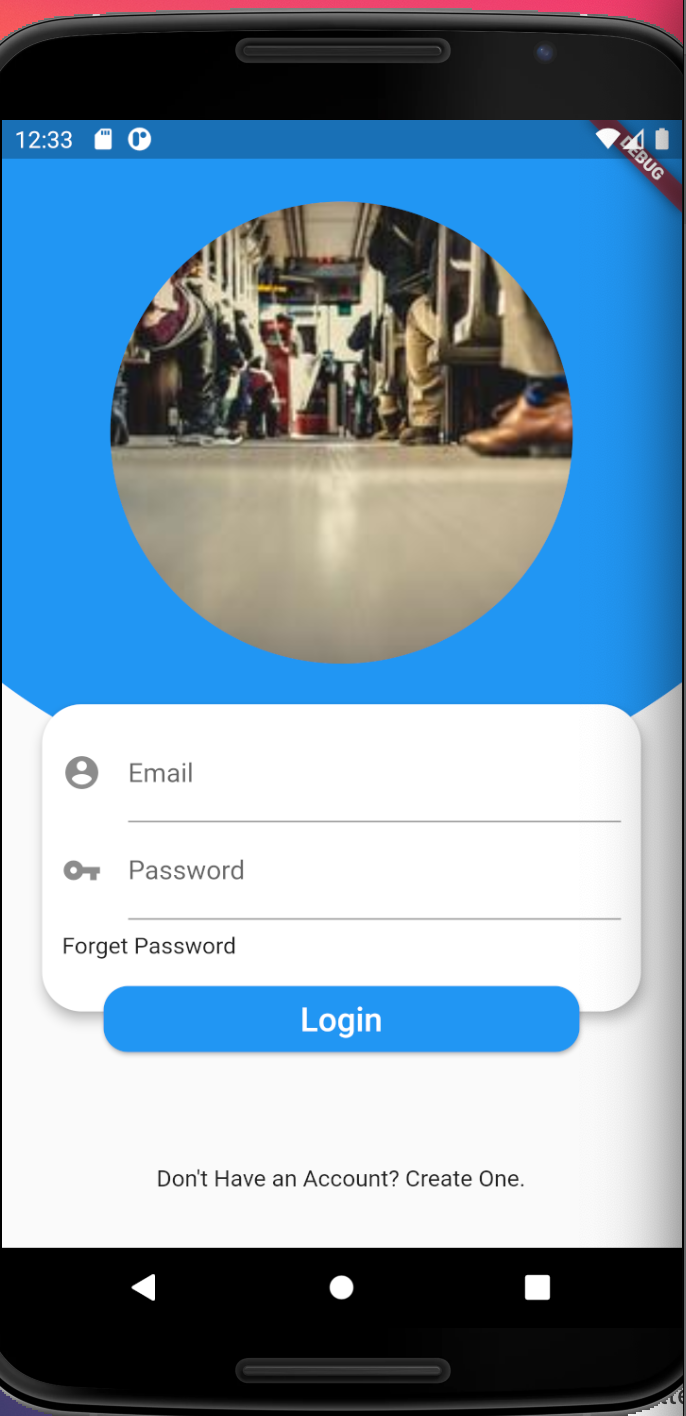
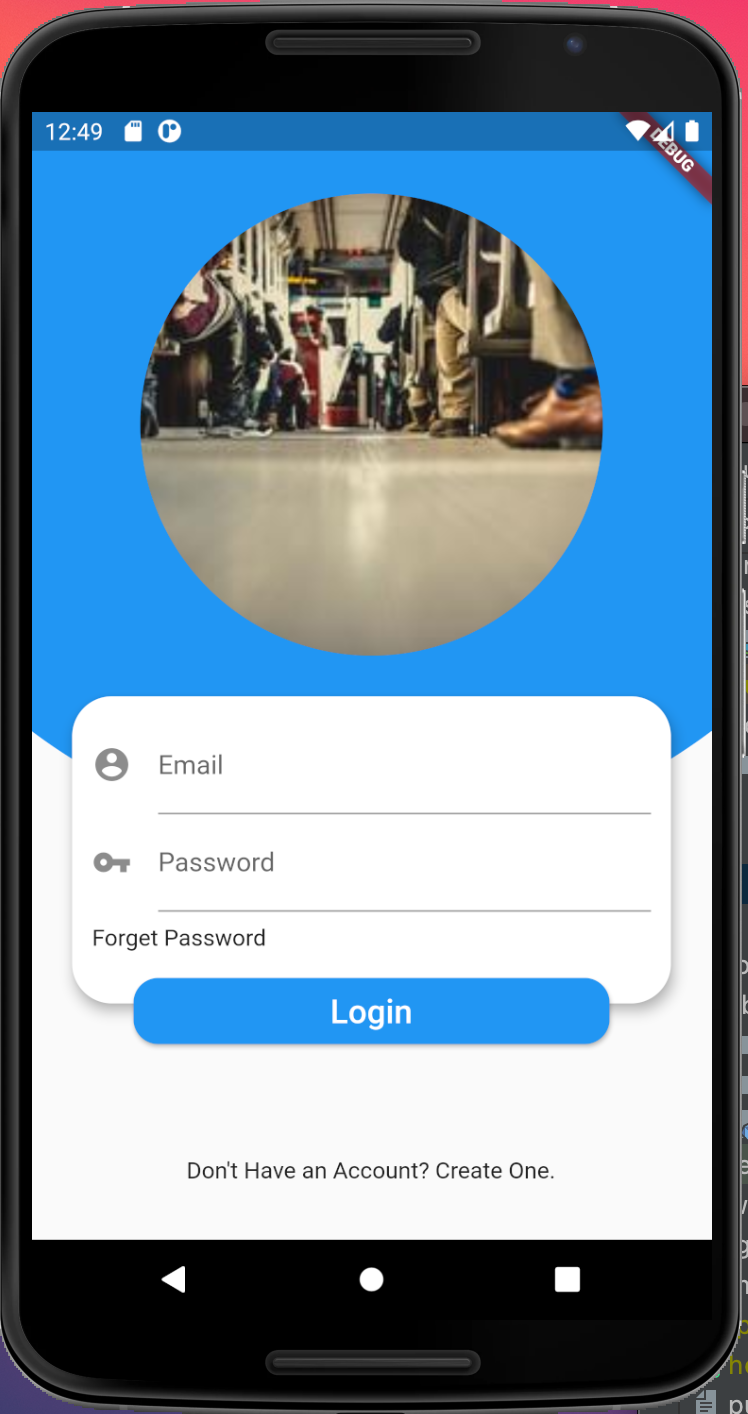
[trivial] loginBackground hegiht change

Changed region(s): [[0.0, 0.0, 1.0, 1.0], [0.2143, 0.8091, 0.7653, 0.8402], [0.2449, 0.4045, 0.3061, 0.4356]]

diff --git a/lib/helper/loginBackground.dart b/lib/helper/loginBackground.dart
@@ -4,7 +4,7 @@ class LoginBackground extends CustomPainter {
   @override
   void paint(Canvas canvas, Size size) {
     Paint paint = Paint()..color = Colors.blue;//paint = Paint() with set color as Colors.blue and
-    canvas.drawCircle(Offset(size.width*0.5, size.height*0.1), size.height*0.5, paint);
+    canvas.drawCircle(Offset(size.width*0.5, size.height*0.15), size.height*0.5, paint);
   }
 
   @override
